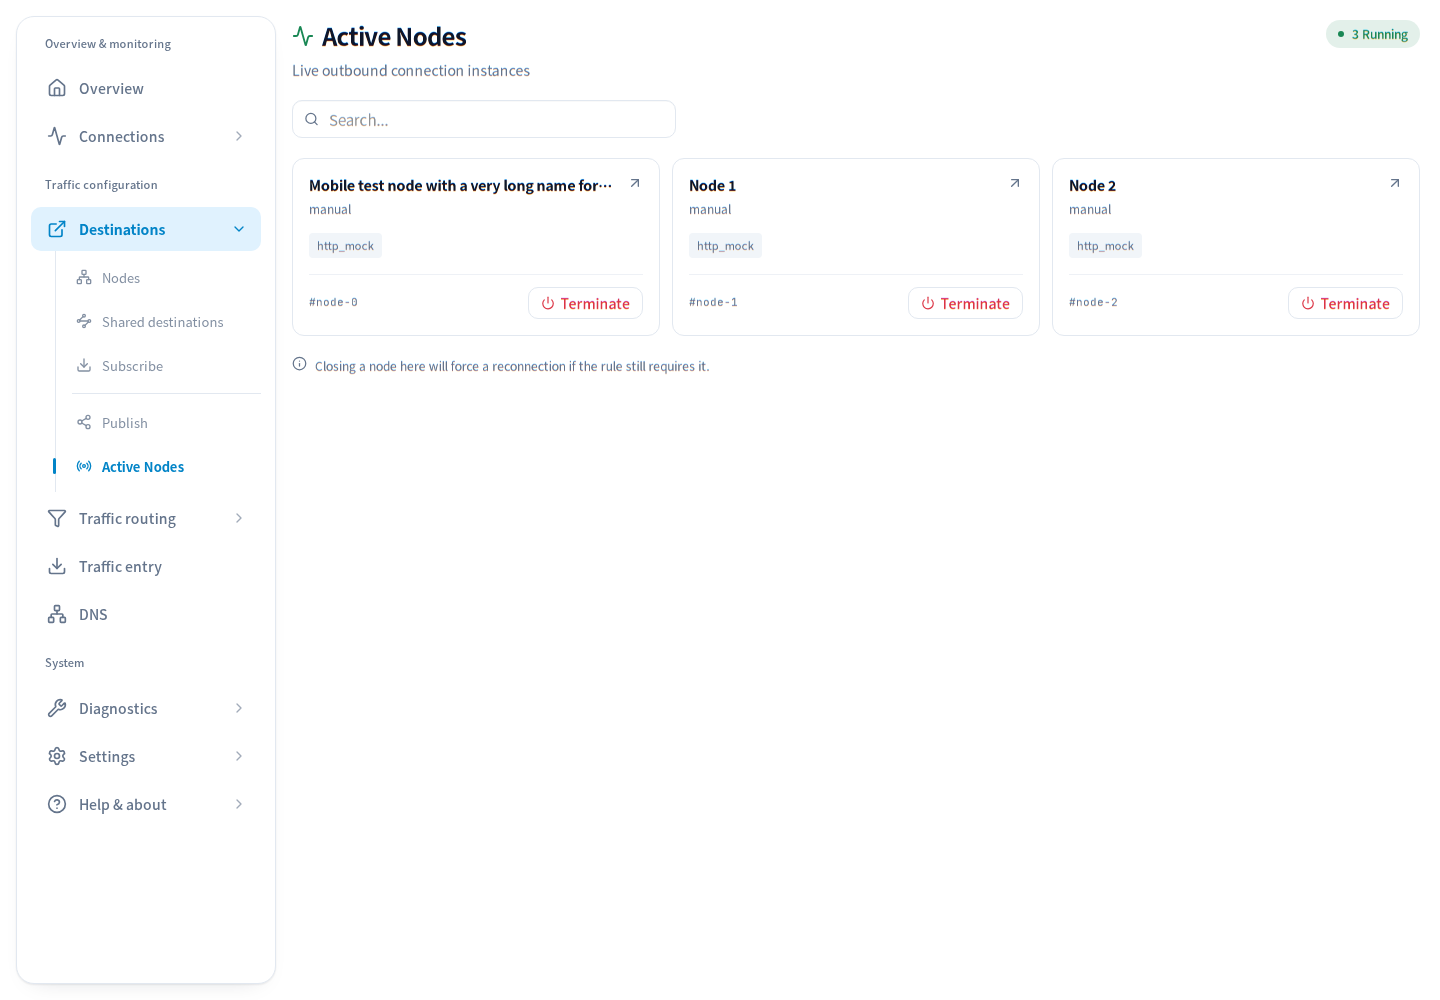
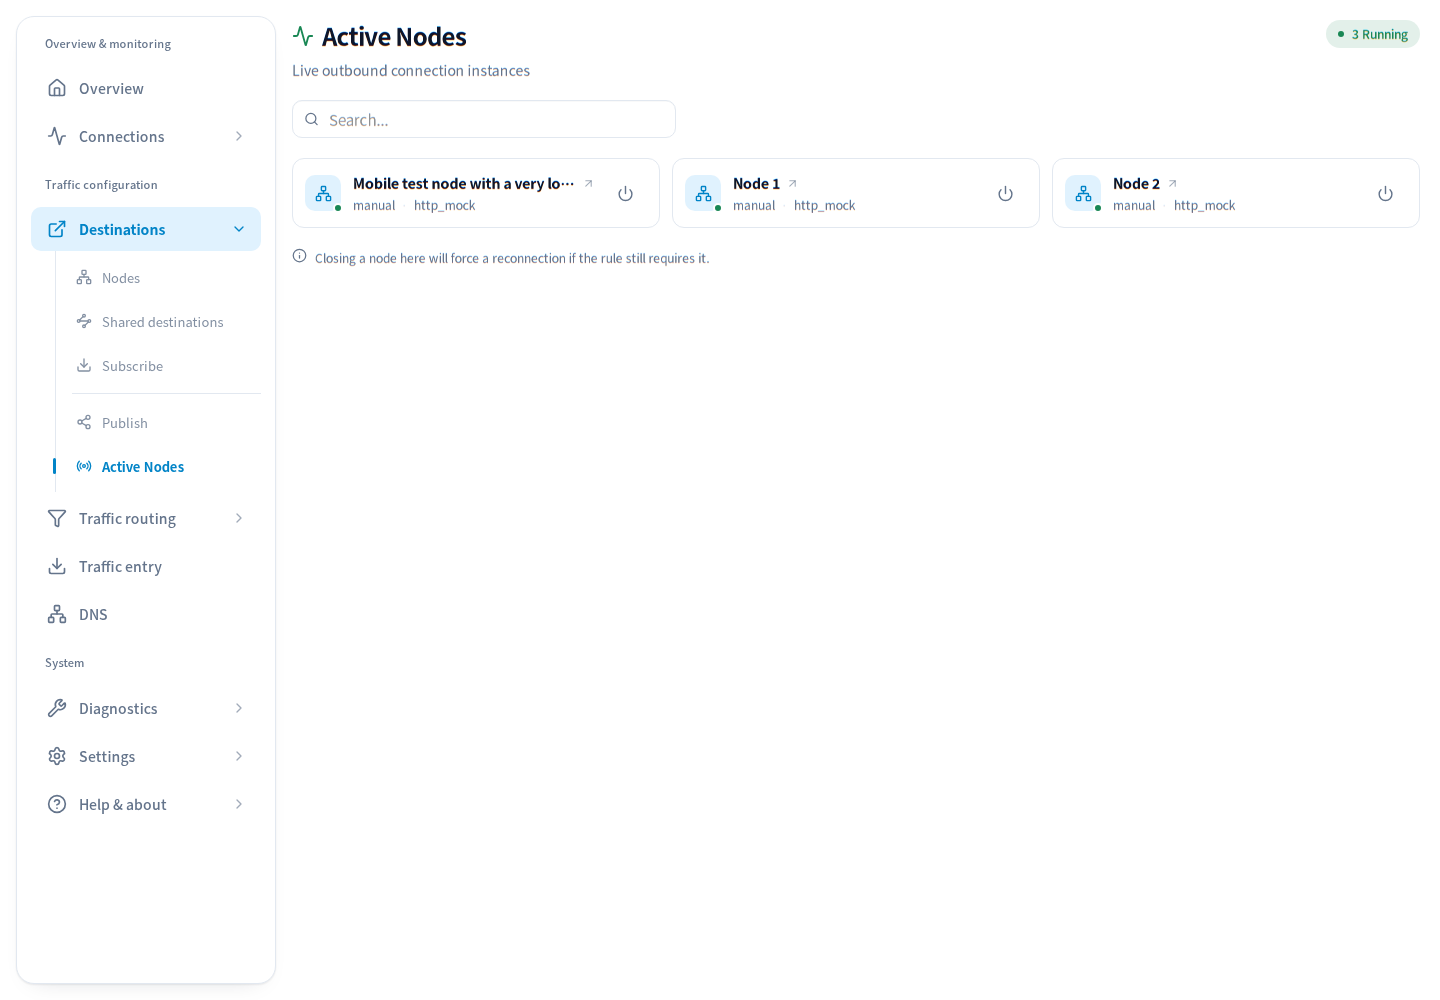
Restore home bottom spacing and compact active node tiles

diff --git a/src/docs/group/activates/page.tsx b/src/docs/group/activates/page.tsx
@@ -8,7 +8,7 @@ import { GlobalToastContext } from '@/component/v2/toast';
 import { Input } from '@/component/v2/input';
 import type { Node } from '@/contract/node';
 import { useAsyncAction, useCloseGuard } from '@/hooks/use-editor-draft';
-import { Activity, ArrowUpRight, Info, Power, Search } from 'lucide-react';
+import { Activity, ArrowUpRight, Info, Network, Power, Search } from 'lucide-react';
 import { useContext, useState } from 'react';
 import { useTranslation } from 'react-i18next';
 import useSWR from 'swr';
@@ -41,17 +41,16 @@ export default function Activates({ showFooter = true }: { showFooter?: boolean 
             <div className="flex items-center gap-2 rounded-full bg-ui-success-soft px-3 py-1.5 text-xs font-medium text-ui-success"><span className="size-1.5 rounded-full bg-ui-success" aria-hidden="true" />{all.length} {uiT('running')}</div>
         </header>
         {showFooter && <div className="relative mb-5 max-w-sm"><Search size={15} className="pointer-events-none absolute left-3 top-1/2 -translate-y-1/2 text-ui-muted" /><Input type="search" className="pl-9" value={query} aria-label={commonT('state.search')} placeholder={commonT('state.search')} onChange={event => setQuery(event.target.value)} /></div>}
-        <ul className="m-0 grid list-none gap-3 p-0 sm:grid-cols-2 xl:grid-cols-3">
-            {items.map(node => <li key={node.id} className="group min-w-0 rounded-ui-lg border border-ui-border bg-ui-surface p-4 transition-colors hover:border-ui-primary/30">
-                <button type="button" className="flex w-full min-w-0 items-start justify-between gap-3 rounded-ui-sm text-left focus-visible:outline-none focus-visible:ring-2 focus-visible:ring-ui-focus" aria-label={t('activeNodeDetails', { name: node.name })} onClick={() => setDetails(node)}>
-                    <span className="min-w-0"><span className="block truncate text-sm font-semibold text-ui-heading" title={node.name}>{node.name}</span><span className="mt-1.5 block truncate text-xs text-ui-muted">{node.group || 'manual'}</span></span>
-                    <ArrowUpRight size={16} className="shrink-0 text-ui-muted transition-colors group-hover:text-ui-primary" />
+        <ul className="m-0 grid list-none grid-cols-[repeat(auto-fill,minmax(min(100%,280px),1fr))] gap-3 p-0">
+            {items.map(node => <li key={node.id} className="group flex min-w-0 items-center gap-2 rounded-ui-lg border border-ui-border bg-ui-surface p-3 transition-colors hover:border-ui-primary/30 hover:bg-ui-surface-muted/30">
+                <button type="button" className="flex min-h-11 min-w-0 flex-1 items-center gap-3 rounded-ui-sm text-left focus-visible:outline-none focus-visible:ring-2 focus-visible:ring-ui-focus" aria-label={t('activeNodeDetails', { name: node.name })} title={`${node.name} · #${node.id}`} onClick={() => setDetails(node)}>
+                    <span aria-hidden="true" className="relative flex size-9 shrink-0 items-center justify-center rounded-ui-md bg-ui-primary-soft text-ui-primary"><Network size={17} /><span className="absolute -bottom-0.5 -right-0.5 size-2.5 rounded-full border-2 border-ui-surface bg-ui-success" /></span>
+                    <span className="min-w-0 flex-1">
+                        <span className="flex min-w-0 items-center gap-1.5"><span className="truncate text-sm font-semibold text-ui-heading">{node.name}</span><ArrowUpRight size={13} aria-hidden="true" className="shrink-0 text-ui-muted/60 transition-colors group-hover:text-ui-primary" /></span>
+                        <span className="mt-1 flex min-w-0 items-center gap-1.5 text-xs text-ui-muted" title={`${node.group || 'manual'} · ${node.chain.map(protocol => protocol.type).join(' → ')}`}><span className="max-w-[45%] truncate">{node.group || 'manual'}</span><span aria-hidden="true" className="text-ui-border">·</span><span className="min-w-0 truncate">{node.chain.map(protocol => protocol.type).join(' → ')}</span></span>
+                    </span>
                 </button>
-                <div className="mt-4 flex flex-wrap gap-1.5">{node.chain.map((protocol, index) => <span key={index} className="rounded bg-ui-surface-muted px-2 py-1 text-[0.6875rem] text-ui-muted">{protocol.type}</span>)}</div>
-                <div className="mt-4 flex min-w-0 items-center justify-between gap-3 border-t border-ui-border/60 pt-3">
-                    <span className="min-w-0 truncate font-mono text-[0.6875rem] text-ui-muted" title={node.id}>#{node.id.slice(0, 8)}</span>
-                    <Button variant="outline-secondary" size="sm" className="shrink-0 gap-1.5 !text-ui-danger" disabled={pending} aria-label={`${uiT('terminateLabel')} ${node.name}`} onClick={() => setConfirm(node)}><Power size={14} />{uiT('terminateLabel')}</Button>
-                </div>
+                <Button variant="outline-secondary" size="icon" className="h-11 w-11 min-h-11 min-w-11 shrink-0 !border-transparent !bg-transparent !text-ui-muted hover:!bg-ui-danger-soft hover:!text-ui-danger" disabled={pending} aria-label={`${uiT('terminateLabel')} ${node.name}`} title={`${uiT('terminateLabel')} ${node.name}`} onClick={() => setConfirm(node)}><Power size={17} /></Button>
             </li>)}
             {!items.length && <li className="col-span-full rounded-ui-lg border border-dashed border-ui-border px-4 py-10 text-center text-sm text-ui-muted">{uiT('noRecordsFound')}</li>}
         </ul>

diff --git a/src/docs/home/page.tsx b/src/docs/home/page.tsx
@@ -114,7 +114,7 @@ function HomePage() {
     }, []);
 
     return (
-        <div className="box-border flex h-full flex-col">
+        <div className="box-border min-h-full">
             <NodeModal
                 show={nodeModal.show}
                 node={nodeModal.node}

diff --git a/docs/ux-refactor/README.md b/docs/ux-refactor/README.md
@@ -73,7 +73,7 @@ Browser checks exercised editing, draft protection, save retention, creation,
 deletion, mobile return, the publish node picker's 40-item page, and five consecutive
 node switches with no detail RPCs. Normal-motion sampling progressed from opacity
 0.68 to 0.89 to 1; reduced-motion sampling remained at opacity 1 with no transform.
-CI captures 18 desktop/mobile states and checks page and form-control bounds.
+CI captures 20 desktop/mobile states and checks page and form-control bounds.
 
 ## GeoIP countries and DNS diagnostics
 
@@ -114,8 +114,10 @@ checks the rendered 24-link sidebar order against the animation order and every
 registered route; Chrome checks verify downward/upward transitions and reduced
 motion on the actual pages.
 
-Active nodes use compact status cards, grouping name, source group, protocol
-chain, connection ID, details and termination in the same area. The same cards
+Active nodes use compact two-line connection tiles, grouping name, source group,
+protocol chain, details and termination in the same area. The full ID remains in
+the details tooltip. Columns adapt to container width instead of stretching a
+fixed three-column layout across wide screens. The same cards
 are used on the overview without a second page heading. Termination still
 requires confirmation and closes only the selected running instance.
 
@@ -247,3 +249,21 @@ the screenshots committed under `docs/ux-refactor/` so the summary stays current
 ![Hosts directory](hosts-desktop.png)
 
 ![Japanese mobile Hosts](hosts-ja-mobile.png)
+
+## Home spacing and compact connection tiles
+
+The homepage uses content height rather than a fixed-height flex column. This
+keeps its contents inside the route scroller's existing bottom padding. Browser
+checks measured approximately 20 px of trailing space at 1440, 2560, 390 and
+320 px widths. CI now checks home desktop/mobile bottom spacing as part of its
+20 captures.
+
+Active tiles are 70 px tall in these fixtures. Names and group/protocol metadata
+share two lines beside a node icon and running indicator. Details and confirmed
+termination remain available; touch controls retain a 44 px target.
+
+![Home connection section](home-active-section.png)
+
+![Home bottom spacing](home-desktop.png)
+
+![Mobile home bottom spacing](home-mobile.png)
